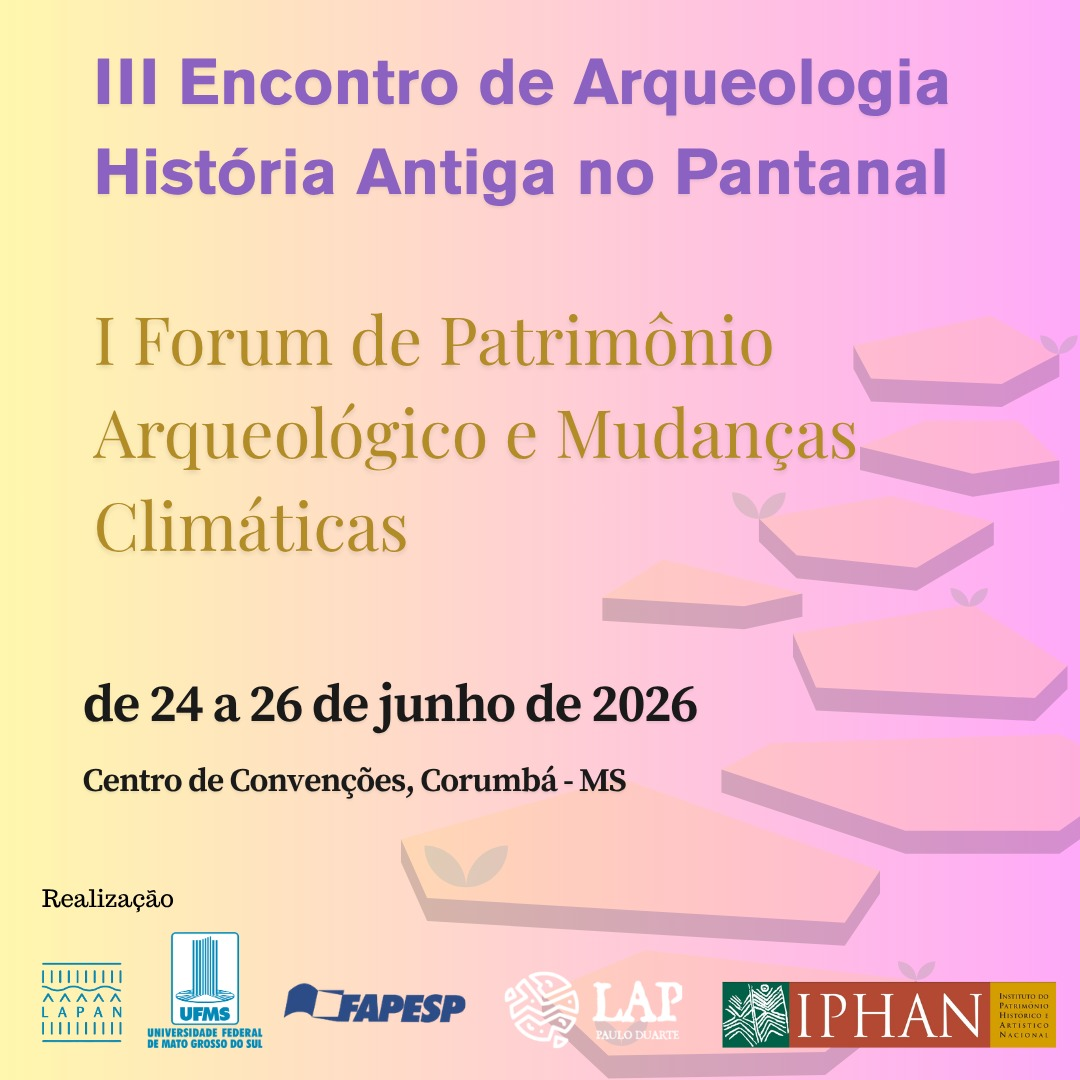
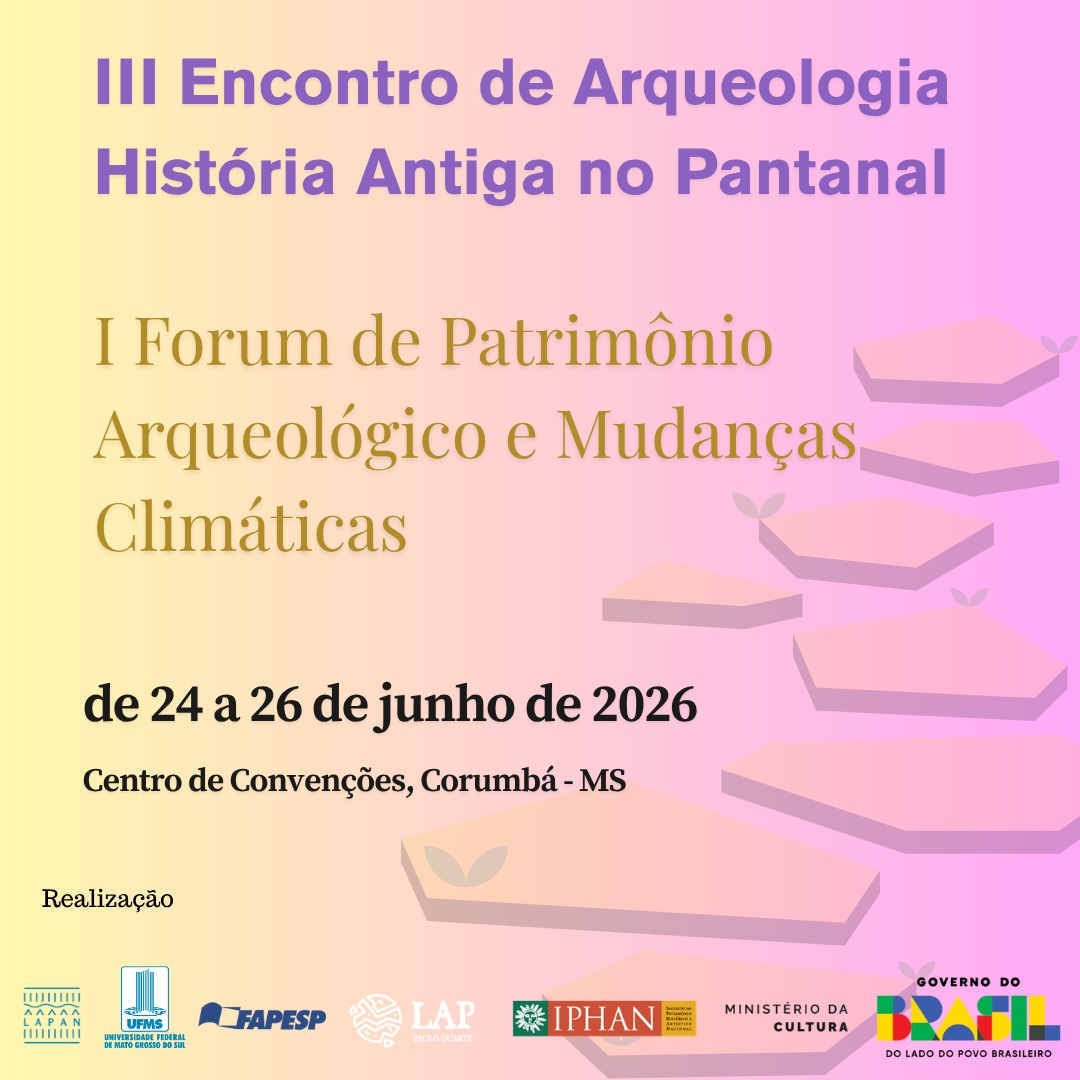
ajuste titulo pagina eventos

Changed region(s): [[0.0, 0.8556, 1.0, 0.9778]]

diff --git a/eventos/index.html b/eventos/index.html
@@ -3,7 +3,7 @@
 <head>
     <meta charset="UTF-8">
     <meta name="viewport" content="width=device-width, initial-scale=1.0">
-    <title>Projetos - LAPAN UFMS</title>
+    <title>Eventos - LAPAN UFMS</title>
     <link rel="icon" type="img/png" href="../img/site/logo.png">
 
     <!-- Ícones -->
@@ -23,7 +23,7 @@
     <nav class="navbar navbar-expand-lg" style="background-color:#593D2B;">
         <div class="container">
 
-            <a class="navbar-brand text-light fw-bold" href="/">
+            <a class="navbar-brand text-light fw-bold" href="../">
                 <span class="texto-marrom-claro"></span>LAPAN</span> <span class="texto-marrom-medio">UFMS</span>
             </a>
 
@@ -72,9 +72,9 @@
     <section class="container fade-up">
 
         <div class="text-center mb-5">
-            <h2 class="titulo-2">Cartaz do Evento</h2>
+            <h2 class="titulo-2">III Encontro de Arqueologia e História Antiga do Pantanal</h2>
             <p class="subtitulo-secao">
-                Clique para ampliar ou baixar o material oficial
+                 Forum de Patrimônio Arqueológico e Mudanças Climáticas
             </p>
         </div>
 
@@ -89,7 +89,7 @@
                         Ampliar
                     </a>
 
-                    <a href="../img/eventos/panfleto.jpeg" download class="btn-secundario">
+                    <a href="../img/eventos/panfleto.jpeg" download class="btn-primario">
                         Baixar
                     </a>
                 </div>
@@ -178,9 +178,60 @@
             <img src="../img/logos/ministerio_cultura.png" alt="Ministerio_Cultura">
         </div>
     </section>
+    
+<!-- ================= CTA FINAL ================= -->
+<section class="text-center fade-up">
 
+    <div class="evento-cta">
 
-    <!-- ================= CTA FINAL ================= -->
+        <h3 class="titulo-2">Inscrições e Informações</h3>
+
+        <p>
+            Escolha abaixo a modalidade de participação no evento.
+        </p>
+
+        <div class="cta-flex">
+
+            <!-- TATU -->
+            <div class="cta-tatu">
+                <img src="../img/site/tatu_apontando.png" alt="Mascote tatu">
+            </div>
+
+            <!-- BOTÕES -->
+            <div class="cta-botoes">
+
+                <a 
+                    href="https://docs.google.com/forms/d/e/1FAIpQLScA1xYWP8YpuvOQfc3S01xFx0fXd1DqfwwDH_Jc11EB9Ju"
+                    target="_blank"
+                    class="btn-secundario"
+                >
+                    Inscrição para Palestras
+                </a>
+
+                <a 
+                    href="https://docs.google.com/forms/d/e/1FAIpQLSdz1jl3HngkBpQgRXflyDRtHUV4DWIQvR1KWBO57X8y0r38eA/viewform?usp=header"
+                    target="_blank"
+                    class="btn-secundario"
+                >
+                    Comunicações Científicas
+                </a>
+
+                <a 
+                    href="https://docs.google.com/forms/d/e/1FAIpQLSe7hse0R4yqqxAydBW08y2vzUiieXfp84LeGpEHZWhIbkk7Yw/viewform?usp=header"
+                    target="_blank"
+                    class="btn-secundario"
+                >
+                    Fórum de Valores
+                </a>
+
+            </div>
+
+        </div>
+
+    </div>
+
+</section>
+
     <section class="text-center fade-up">
 
         <div class="container">

diff --git a/css/style.css b/css/style.css
@@ -340,7 +340,7 @@ p {
     background: #fff;
     border-radius: 16px;
     padding: 15px;
-    max-width: 500px;
+    max-width: 400px;
     box-shadow: 0 10px 30px rgba(0,0,0,0.15);
     text-align: center;
     transition: 0.3s;
@@ -415,20 +415,62 @@ p {
     margin-top: 60px;
 }
 
-.evento-cta h3 {
-    margin-bottom: 10px;
-    color: #5a4633;
-}
-
-.evento-cta p {
-    color: #6b5a48;
-}
-
 .botoes-evento {
     margin-top: 20px;
     display: flex;
     justify-content: center;
     gap: 10px;
+}
+
+/* ================= CTA COM TATU ================= */
+.cta-flex {
+    display: flex;
+    align-items: center;
+    justify-content: center;
+    gap: 30px;
+    margin-top: 10px;
+    flex-wrap: wrap;
+}
+
+.cta-tatu img {
+    width: 240px;
+    max-width: 100%;
+}
+
+.cta-botoes {
+    display: flex;
+    flex-direction: column;
+    gap: 15px;
+    align-items: flex-start;
+}
+
+/* ================= MOBILE ================= */
+@media (max-width: 768px) {
+
+    .cta-flex {
+        flex-direction: row;
+        align-items: center;
+        justify-content: center;
+        gap: 15px;
+        flex-wrap: nowrap;
+    }
+
+    .cta-tatu img {
+        width: 120px;
+    }
+
+    .cta-botoes {
+        display: flex;
+        flex-direction: column;
+        gap: 10px;
+        align-items: flex-start;
+    }
+
+    .cta-botoes a {
+        font-size: 0.85rem;
+        padding: 10px 12px;
+        width: 220px;
+    }
 }
 
 /* ================= RESPONSIVO EVENTO  ================= */

diff --git a/itens-em-exposicao/index.html b/itens-em-exposicao/index.html
@@ -3,7 +3,7 @@
 <head>
     <meta charset="UTF-8">
     <meta name="viewport" content="width=device-width, initial-scale=1.0">
-    <title>Itens – LAPAN UFMS</title>
+    <title>Acervo – LAPAN UFMS</title>
     <link rel="icon" type="img/png" href="../img/logo.png">
 
     <!-- Ícones -->
@@ -22,7 +22,7 @@
     <header>
     <nav class="navbar navbar-expand-lg" style="background-color:#593D2B;">
         <div class="container">
-        <a class="navbar-brand text-light fw-bold" href="/">
+        <a class="navbar-brand text-light fw-bold" href="../">
             <span class="texto-marrom-claro"></span>LAPAN</span> <span class="texto-marrom-medio">UFMS</span>
         </a>
 

diff --git a/sobre/index.html b/sobre/index.html
@@ -25,7 +25,7 @@
         <nav class="navbar navbar-expand-lg" style="background-color:#593D2B;">
             <div class="container">
 
-                <a class="navbar-brand text-light fw-bold" href="/">
+                <a class="navbar-brand text-light fw-bold" href="../">
                     <span class="texto-marrom-claro"></span>LAPAN</span> <span class="texto-marrom-medio">UFMS</span>
                 </a>
 

diff --git a/contato/index.html b/contato/index.html
@@ -23,7 +23,7 @@
     <nav class="navbar navbar-expand-lg" style="background-color:#593D2B;">
         <div class="container">
 
-            <a class="navbar-brand text-light fw-bold" href="/">
+            <a class="navbar-brand text-light fw-bold" href="../">
                 <span class="texto-marrom-claro"></span>LAPAN</span> <span class="texto-marrom-medio">UFMS</span>
             </a>
 

diff --git a/projetos/index.html b/projetos/index.html
@@ -23,7 +23,7 @@
     <nav class="navbar navbar-expand-lg" style="background-color:#593D2B;">
         <div class="container">
 
-            <a class="navbar-brand text-light fw-bold" href="/">
+            <a class="navbar-brand text-light fw-bold" href="../">
                 <span class="texto-marrom-claro"></span>LAPAN</span> <span class="texto-marrom-medio">UFMS</span>
             </a>
 

diff --git a/visita/index.html b/visita/index.html
@@ -22,7 +22,7 @@
     <header>
     <nav class="navbar navbar-expand-lg" style="background-color:#593D2B;">
         <div class="container">
-        <a class="navbar-brand text-light fw-bold" href="/">
+        <a class="navbar-brand text-light fw-bold" href="../">
             <span class="texto-marrom-claro"></span>LAPAN</span> <span class="texto-marrom-medio">UFMS</span>
         </a>
 
